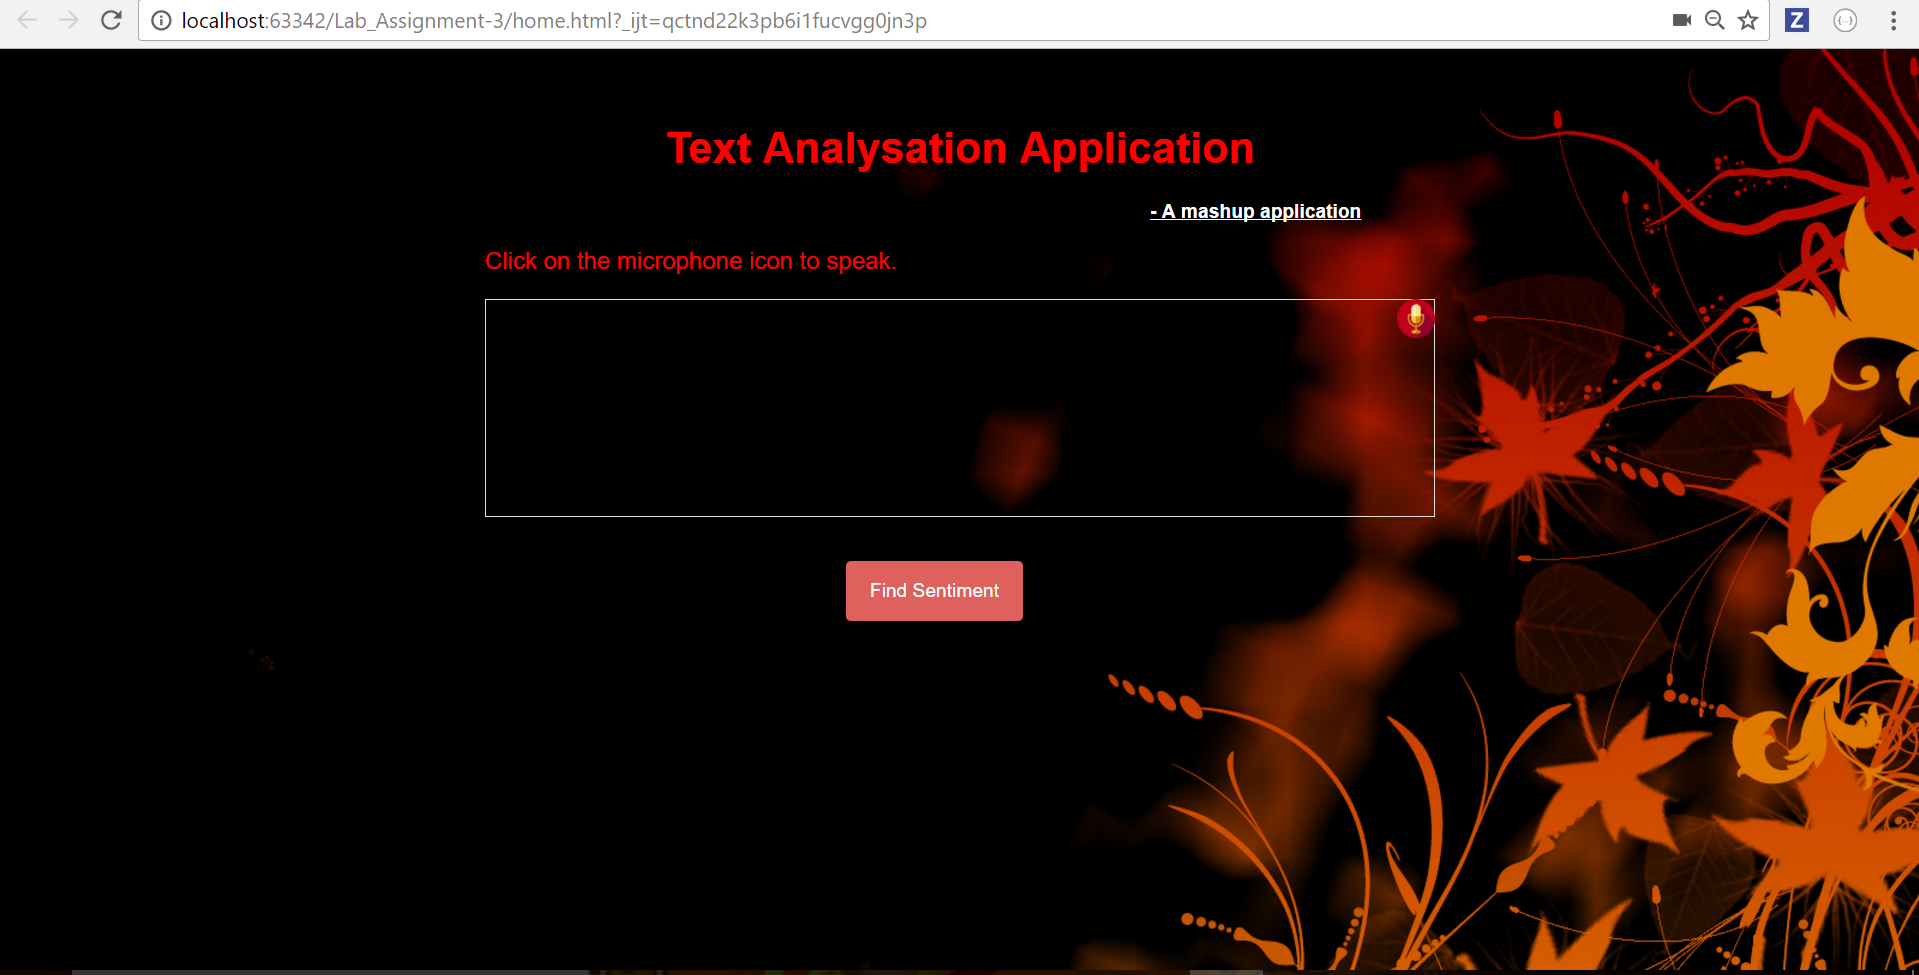
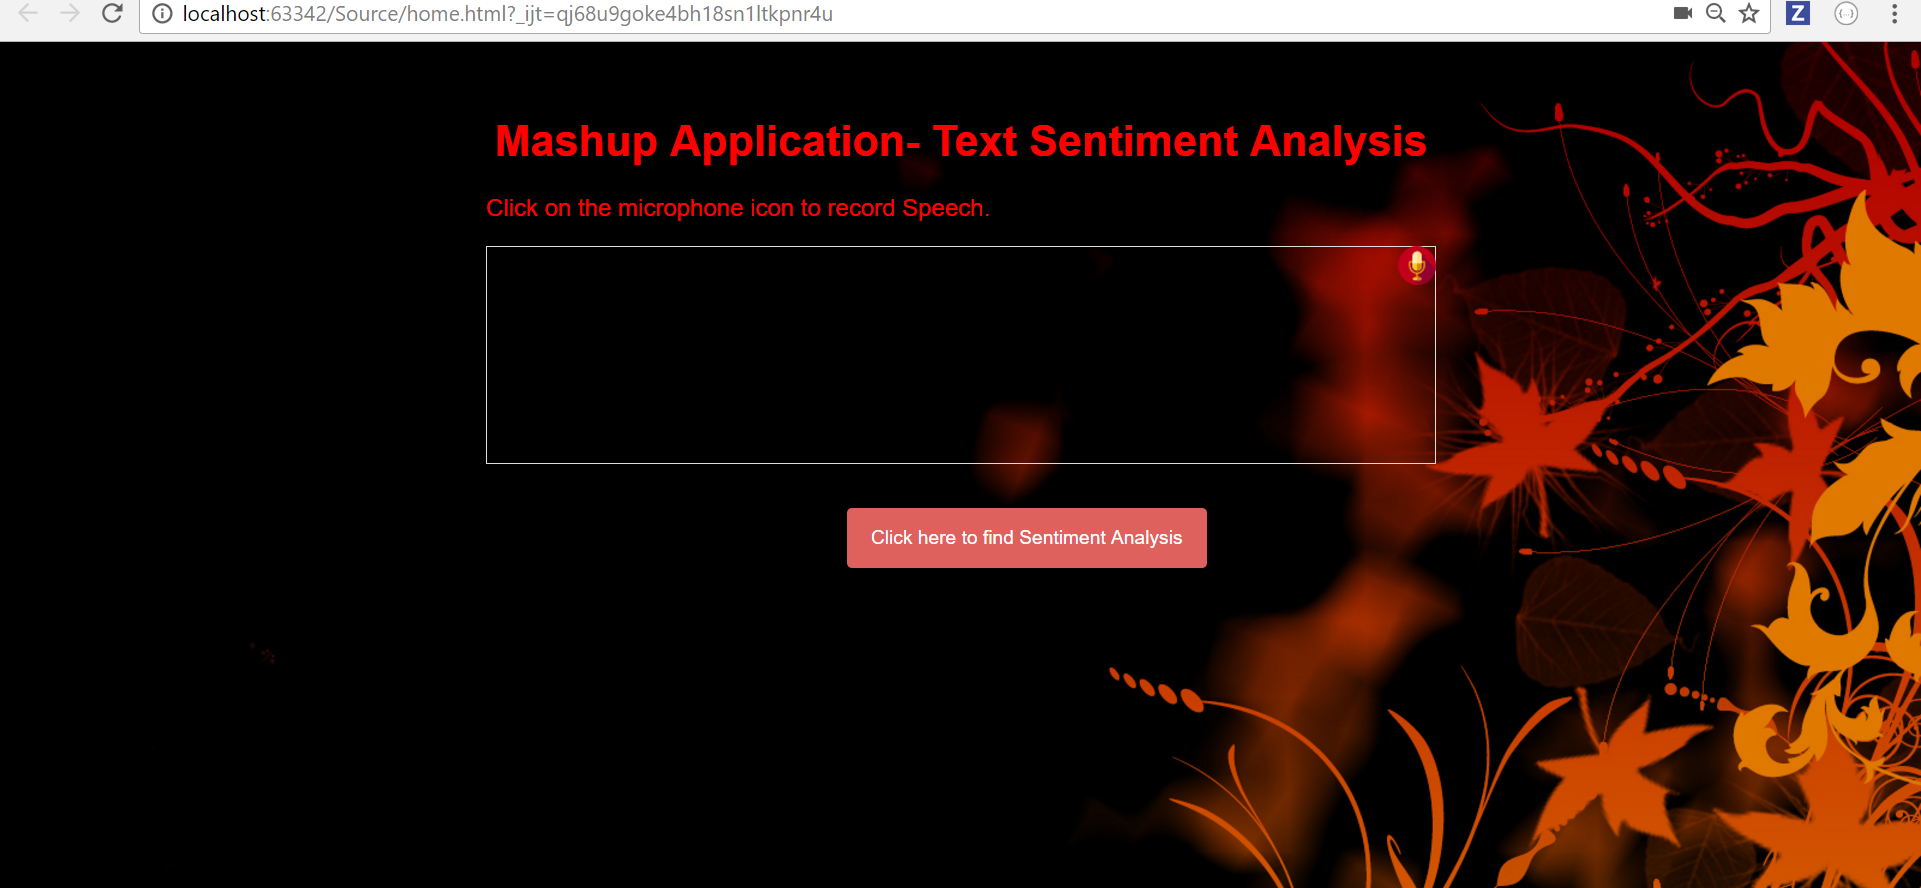
labAssignment_3

diff --git a/LabAssignment_3/Source/home.html b/LabAssignment_3/Source/home.html
@@ -27,9 +27,7 @@
 <body style="background: url('Background-4.jpg')" class="bgg" ng-app="Sentiment">
 <div class="browser-landing" id="main">
     <div id="top">
-        <h1 align="center" style="color: red">Text Analysation Application</h1>
-        <h3 id="caption"><u>- A mashup application</u></h3>
-
+        <h1 align="center" style="color: red">Mashup Application- Text Sentiment Analysis</h1>
     </div>
 
     <div id="main-top">
@@ -38,7 +36,7 @@
             <div class="compact marquee">
                 <div id="info">
                     <p id="info_start" style="font-size: 20px;color: red">
-                        Click on the microphone icon to speak.
+                        Click on the microphone icon to record Speech.
                     </p>
                     <p id="info_speak_now" style="display:none;font-size: 20px;color: blue">
                         Speak now.
@@ -242,7 +240,7 @@
 
 <div ng-controller="Sentimentctrl" id="sentiment">
     <div id="sentiment-button">
-        <button class="btn btn-primary" ng-click="findSentiment()">Find Sentiment</button>
+        <button class="btn btn-primary" ng-click="findSentiment()">Click here to find Sentiment Analysis</button>
     </div>
     <div id="div_List" style="display:none;font-size: 20px;>
         <div class="table1">
